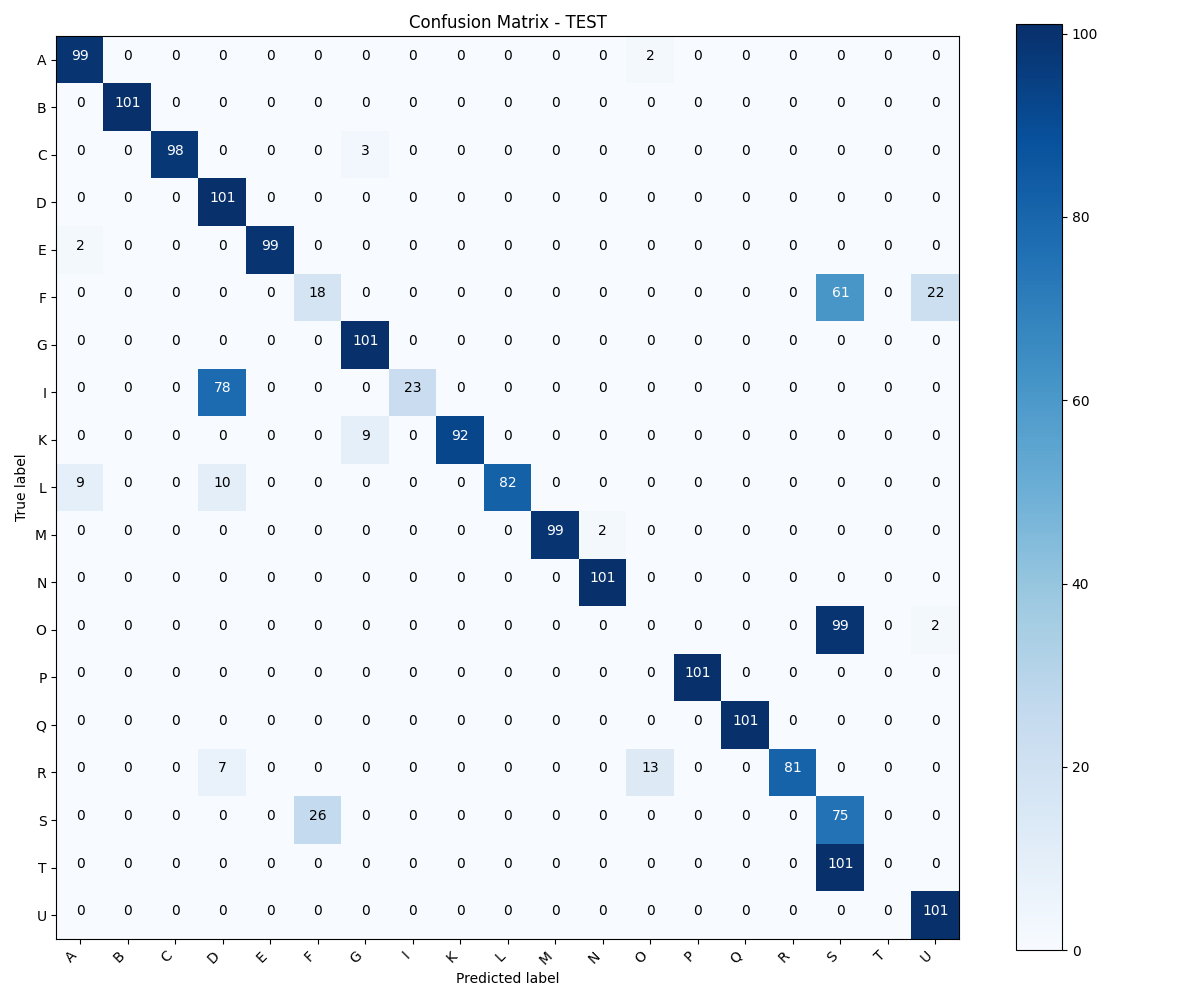
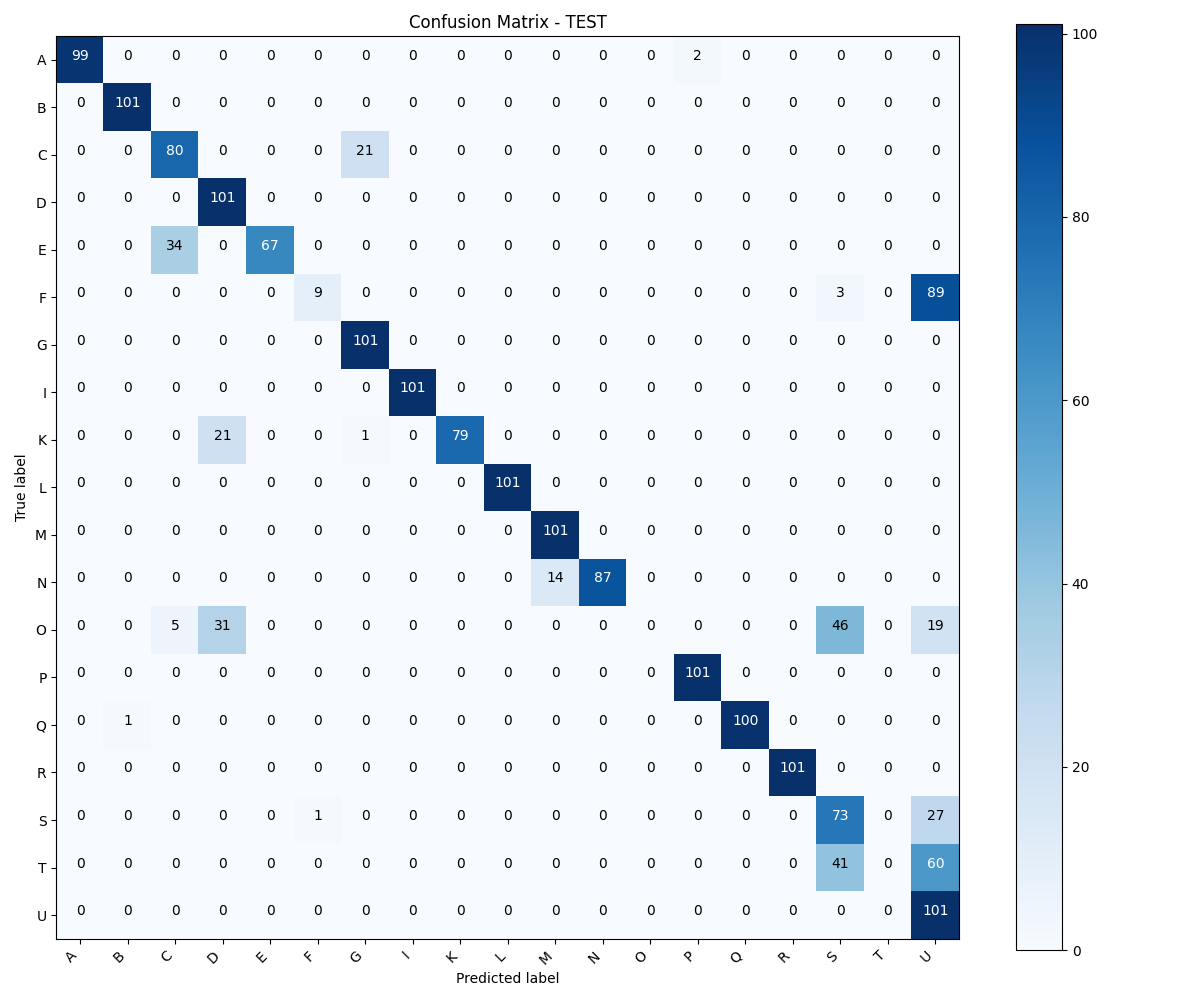
HandCrop+Normalization

diff --git a/src/challenge_code/handcrop_transform.py b/src/challenge_code/handcrop_transform.py
@@ -1,0 +1,76 @@
+import numpy as np
+from PIL import Image
+import mediapipe as mp
+
+
+class HandCropMP:
+    """
+    Pickle-safe para DataLoader con num_workers > 0:
+    - NO crea mp Hands en __init__
+    - lo crea de forma lazy dentro del worker la primera vez que se llama
+    """
+    def __init__(
+        self,
+        margin: float = 0.25,
+        max_num_hands: int = 1,
+        min_detection_confidence: float = 0.5,
+        min_tracking_confidence: float = 0.5,
+        fallback: str = "center_crop",
+    ):
+        self.margin = margin
+        self.max_num_hands = max_num_hands
+        self.min_detection_confidence = min_detection_confidence
+        self.min_tracking_confidence = min_tracking_confidence
+        self.fallback = fallback
+
+        self._hands = None  # <-- importante: se crea luego
+
+    def _get_hands(self):
+        if self._hands is None:
+            # Se instancia dentro del proceso worker (ya no necesita pickle)
+            self._hands = mp.solutions.hands.Hands(
+                static_image_mode=True,
+                max_num_hands=self.max_num_hands,
+                model_complexity=1,
+                min_detection_confidence=self.min_detection_confidence,
+                min_tracking_confidence=self.min_tracking_confidence,
+            )
+        return self._hands
+
+    def _center_crop(self, rgb: np.ndarray, frac: float = 0.70) -> Image.Image:
+        H, W, _ = rgb.shape
+        ch, cw = int(H * frac), int(W * frac)
+        y0 = (H - ch) // 2
+        x0 = (W - cw) // 2
+        return Image.fromarray(rgb[y0:y0 + ch, x0:x0 + cw])
+
+    def __call__(self, img: Image.Image) -> Image.Image:
+        rgb = np.array(img.convert("RGB"))
+        H, W, _ = rgb.shape
+
+        hands = self._get_hands()
+        res = hands.process(rgb)
+
+        if not res.multi_hand_landmarks:
+            if self.fallback == "center_crop":
+                return self._center_crop(rgb)
+            return img
+
+        xs, ys = [], []
+        for hand in res.multi_hand_landmarks:
+            for lm in hand.landmark:
+                xs.append(lm.x)
+                ys.append(lm.y)
+
+        x_min = max(0, int((min(xs) - self.margin) * W))
+        x_max = min(W, int((max(xs) + self.margin) * W))
+        y_min = max(0, int((min(ys) - self.margin) * H))
+        y_max = min(H, int((max(ys) + self.margin) * H))
+
+        if x_max <= x_min + 10 or y_max <= y_min + 10:
+            if self.fallback == "center_crop":
+                return self._center_crop(rgb)
+            return img
+
+        crop = rgb[y_min:y_max, x_min:x_max]
+        return Image.fromarray(crop)

diff --git a/src/challenge_code/train.py b/src/challenge_code/train.py
@@ -15,6 +15,7 @@ from .model import VGG19Timm
 from .model import DinoV2Timm
 from .model import VGG19BN
 
+from .handcrop_transform import HandCropMP
 
 def get_device(force: str = "auto") -> torch.device:
     force = force.lower()
@@ -96,27 +97,32 @@ def train_model():
     # Transforms
     imgsize = 224
     transform = transforms.Compose(
-        [
-            transforms.Resize((imgsize, imgsize)),
-            transforms.ToTensor(),
-            transforms.Normalize((0.0, 0.0, 0.0), (1.0, 1.0, 1.0)),
-        ]
-    )
+    [
+        #HandCropMP(margin=0.25, max_num_hands=1, fallback="center_crop"),
+        transforms.Resize((imgsize, imgsize)),
+        transforms.ToTensor(),
+        transforms.Normalize((0.485, 0.456, 0.406),
+                             (0.229, 0.224, 0.225)),
+    ]
+)
+
     transform_train = transforms.Compose(
-        [
-            transforms.Resize((imgsize, imgsize)),
-            transforms.RandomApply(
-                [
-                    transforms.RandomRotation(45),
-                    transforms.RandomHorizontalFlip(p=0.5),
-                    transforms.ColorJitter(0.2, 0.2, 0.2, 0.05),
-                ],
-                p=0.8,
-            ),
-            transforms.ToTensor(),
-            transforms.Normalize((0.0, 0.0, 0.0), (1.0, 1.0, 1.0)),
-        ]
-    )
+    [
+        #HandCropMP(margin=0.25, max_num_hands=1, fallback="center_crop"),
+        transforms.Resize((imgsize, imgsize)),
+        transforms.RandomApply(
+            [
+                transforms.RandomRotation(45),
+                transforms.RandomHorizontalFlip(p=0.5),
+                transforms.ColorJitter(0.2, 0.2, 0.2, 0.05),
+            ],
+            p=0.8,
+        ),
+        transforms.ToTensor(),
+        transforms.Normalize((0.485, 0.456, 0.406),
+                             (0.229, 0.224, 0.225)),
+    ]
+)
 
     # Datasets
     train_dataset = ChallengeImageFolderDataset(train_dir, transform=transform_train)

diff --git a/src/challenge_code/evaluate.py b/src/challenge_code/evaluate.py
@@ -11,6 +11,8 @@ from torchvision import transforms
 
 from sklearn.metrics import confusion_matrix, f1_score, accuracy_score
 
+from .handcrop_transform import HandCropMP
+
 from .dataset import ChallengeImageFolderDataset
 from .model import ConvolutionalNetwork
 from .model import VGG19Timm
@@ -172,11 +174,12 @@ if __name__ == "__main__":
     batch_size = 32
 
     # carpeta donde está best_model.pth
-    run_dir = Path(__file__).parent / "outs" / "run_008"
+    run_dir = Path(__file__).parent / "outs" / "run_009"
     best_model = run_dir / "best_model.pth"
 
     out_dir = Path(__file__).parent / "outs" / "Prueba_imagenes_internet"
     #out_dir = run_dir 
+    #out_dir = Path(__file__).parent / "outs" / "Prueba1"
     out_dir.mkdir(parents=True, exist_ok=True)
 
     device = get_device("auto")
@@ -187,12 +190,14 @@ if __name__ == "__main__":
     imgsize = 224
     # Transform  
     transform = transforms.Compose(
-        [
-            transforms.Resize((imgsize, imgsize)),
-            transforms.ToTensor(),
-            transforms.Normalize((0.0, 0.0, 0.0), (1.0, 1.0, 1.0)),
-        ]
-    )
+    [
+        #HandCropMP(margin=0.25, max_num_hands=1, fallback="center_crop"),
+        transforms.Resize((imgsize, imgsize)),
+        transforms.ToTensor(),
+        transforms.Normalize((0.485, 0.456, 0.406),
+                             (0.229, 0.224, 0.225)),
+    ]
+)
 
     # === Dataset/Loader ===
     test_dataset = ChallengeImageFolderDataset(test_dir, transform=transform)
